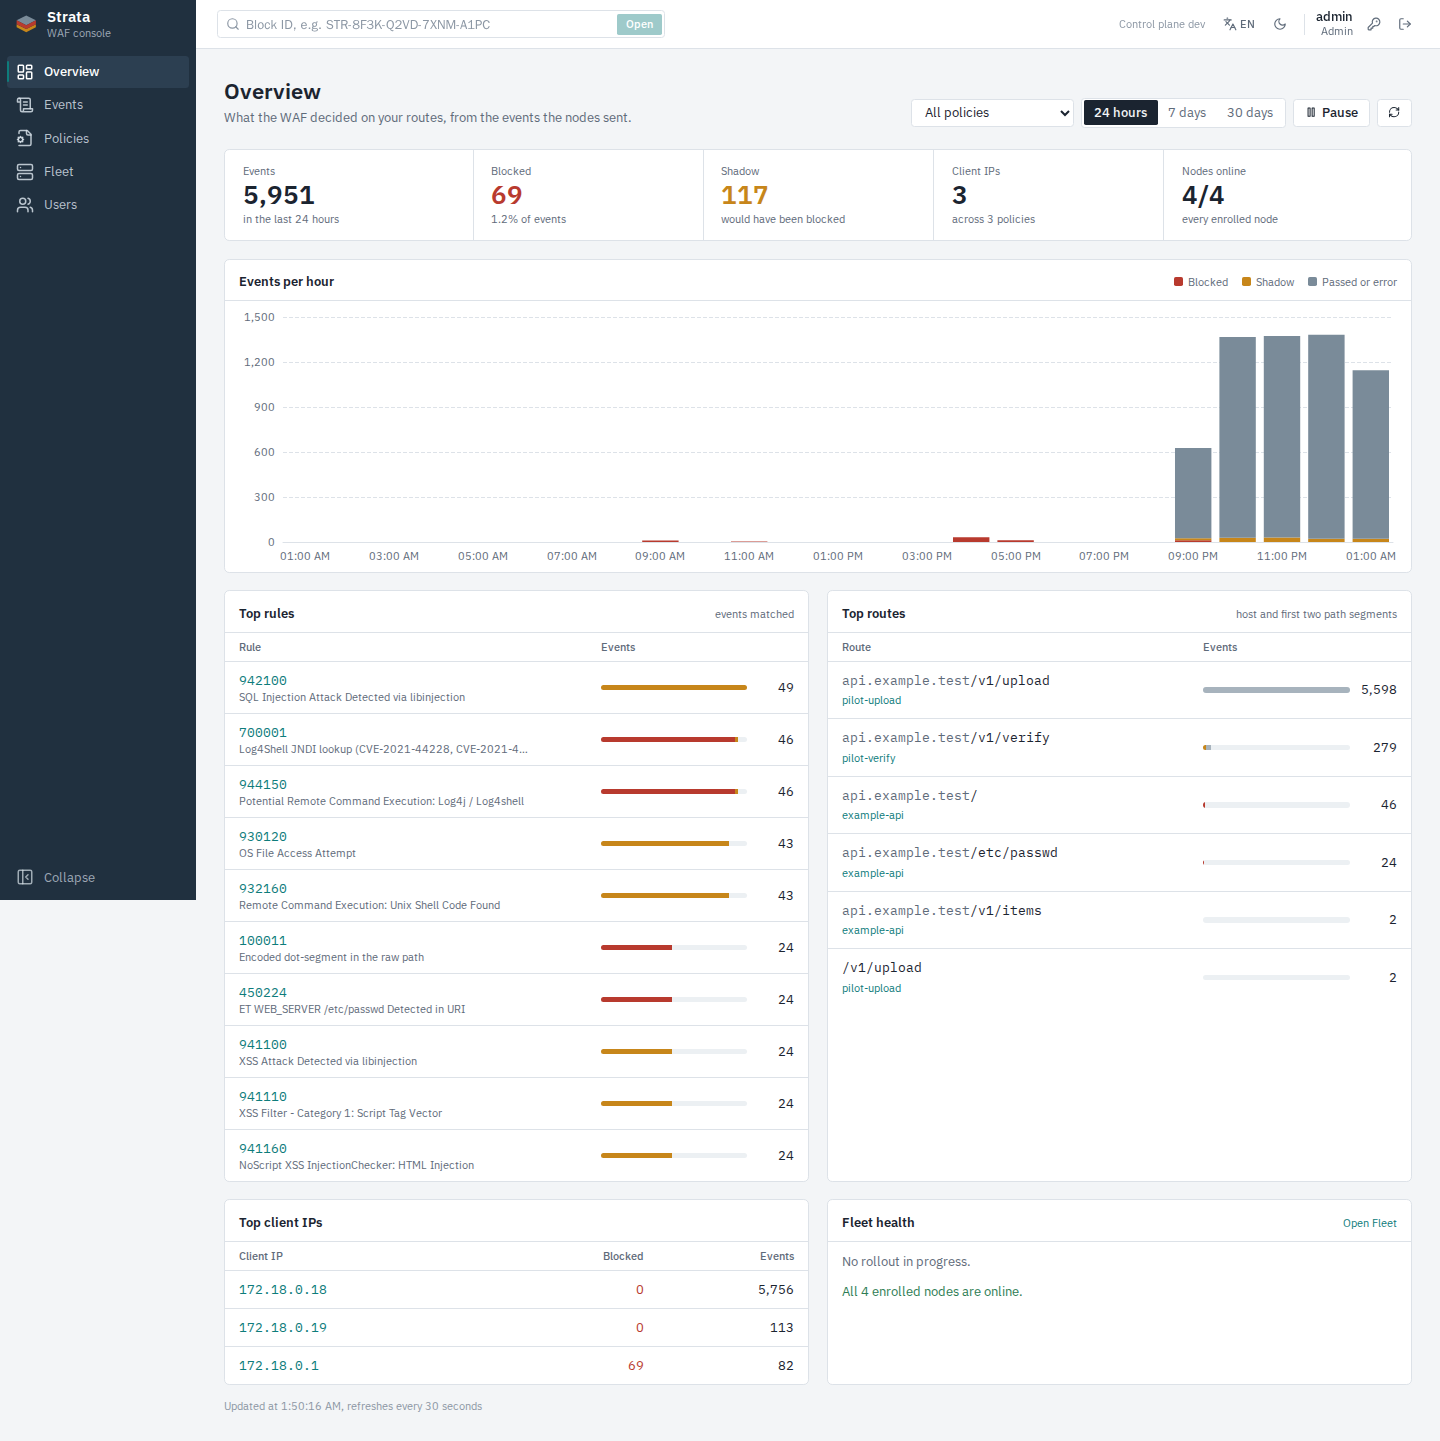
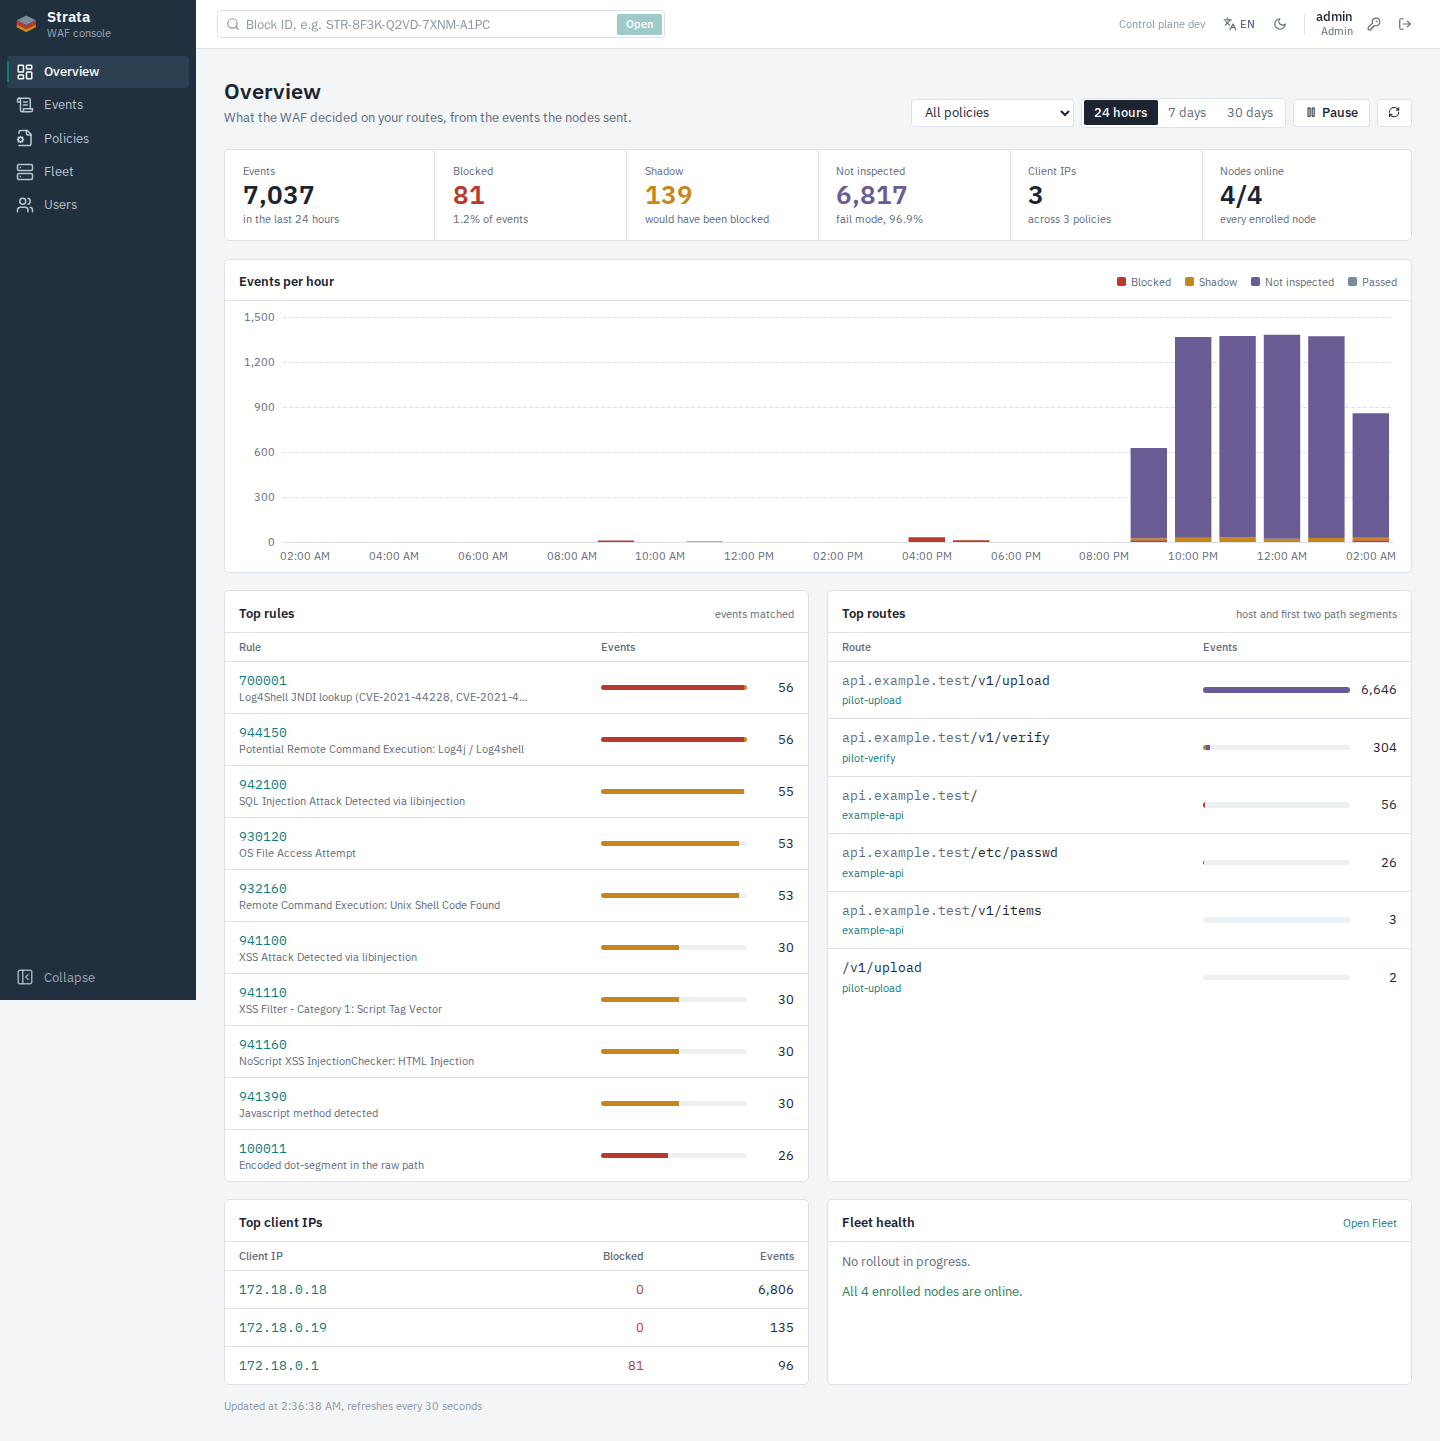
docs: staging v0.10.0-rc.4 deploy, Overview and shadow FP screenshots on staging

diff --git a/docs/reports/w09-s-01.md b/docs/reports/w09-s-01.md
@@ -82,6 +82,8 @@ nhất có code đúng.
 | 13/10 16:19–16:20 | `v0.9.0-rc.4` (không deploy lại stack) | 0.0.1 | diễn tập runbook W10-N-01 (`tests/e2e/runbook-drill.sh staging`): deploy policy `example-api` ở shadow (bundle 8), rollback (bundle 9), tắt/bật module trên node-2 bằng reload. PASS | Không đổi gói, không có lỗi do gói, nên **không tính lại mốc**. Sau reload, probe Log4Shell đầu tiên trên node-2 đi fail-open (vượt CPU budget, 2.043 µs) → [#49](https://github.com/hieunyit/strata/issues/49) (engine) |
 | 13/10 16:53 | `v0.10.0-rc.1` | 0.0.1 | smoke pass; node-1 chặn mọi probe Log4Shell; node-2 cho qua 2 probe đầu (mỗi worker mới một probe, engine error 4, 5–7 ms) rồi chặn | Bản mới: W10-Q-01, W10-N-01. Lỗi #49 có từ trước (engine không đổi so với rc.4), không do gói gây ra, nên không tính lại mốc |
 | 13/10 17:43 | `v0.10.0-rc.2` | 0.0.1 | smoke pass, cả hai node chặn Log4Shell ngay probe đầu | Sửa builder đóng gói (W10-G1-01). Thêm 2 node thí điểm (`pilot-verify`, `pilot-upload`, group `pilot`, chưa bật kiểm tra). Không tính lại mốc |
+| 13/10 ~19:40 | `v0.10.0-rc.3` | 0.0.1 | smoke pass; node-2 cho qua probe Log4Shell đầu tiên (#49), các probe sau bị chặn | Sửa #47 (sự kiện shadow), F-01; policy shadow cho 2 route thí điểm (W10-G2-01). Không tính lại mốc |
+| 14/10 ~02:30 | `v0.10.0-rc.4` | 0.0.1 | smoke pass (cả datasource ClickHouse của Grafana), cả hai node chặn Log4Shell ngay probe đầu; route thí điểm giữ kiểm tra | Tổng quan tách riêng fail mode (#62), dashboard FP (#58), các bản sửa của review tuần 10. Không tính lại mốc |
 
 Bundle `.sbn` build lại trên server mới có sha256 khác bản build trên laptop
 (`27939026…` so với `afb8972a…`), còn IR `strata-signatures-0.0.1.rules.json` trùng từng

diff --git a/docs/reports/w10-s-01.md b/docs/reports/w10-s-01.md
@@ -169,7 +169,10 @@ sau W10-G2-01.
 | Dashboard | `deploy/monitoring/gen-dashboards.py` → `dashboards/strata-shadow-fp.json` | Bảng nghi FP theo ngày × Rule ID: cùng điều kiện với `fp-report` (`action='shadow'`, lọc policy, loại IP/CIDR tấn công). Thêm hai biểu đồ: sự kiện shadow theo giờ và policy; request không được kiểm đủ (`action='error'`, fail mode). Biến: policy (mặc định `pilot-verify`, `pilot-upload`), danh sách IP/CIDR loại trừ |
 | Kiểm | `check-dashboards.py`, `deploy/lab/smoke.sh` | Panel ClickHouse chỉ đọc `default.events`, SQL cân bằng ngoặc (lỗi thật đã gặp). Smoke: dashboard nạp được, datasource khỏe, user `grafana` đọc được `events`, **không** đọc được bảng hệ thống, **không** ghi được |
 
-Ảnh: `docs/reports/w10/strata-shadow-fp.png` (lab, policy `example-web`). Qua
+Ảnh: `docs/reports/w10/strata-shadow-fp.png` (lab, policy `example-web`) và
+`docs/reports/w10/s01-staging-shadow-fp.png` (staging `v0.10.0-rc.4`, 14/10, chưa điền IP
+loại trừ: các dòng đều từ 1 nguồn là container tấn công 172.18.0.19; điền IP đó thì bảng
+rỗng). Qua
 `/api/ds/query` của Grafana, bảng ra Rule 100011 với 4 sự kiện từ 1 nguồn; loại dải
 `172.16.0.0/12` (nguồn của các tấn công thử) thì bảng rỗng.
 
